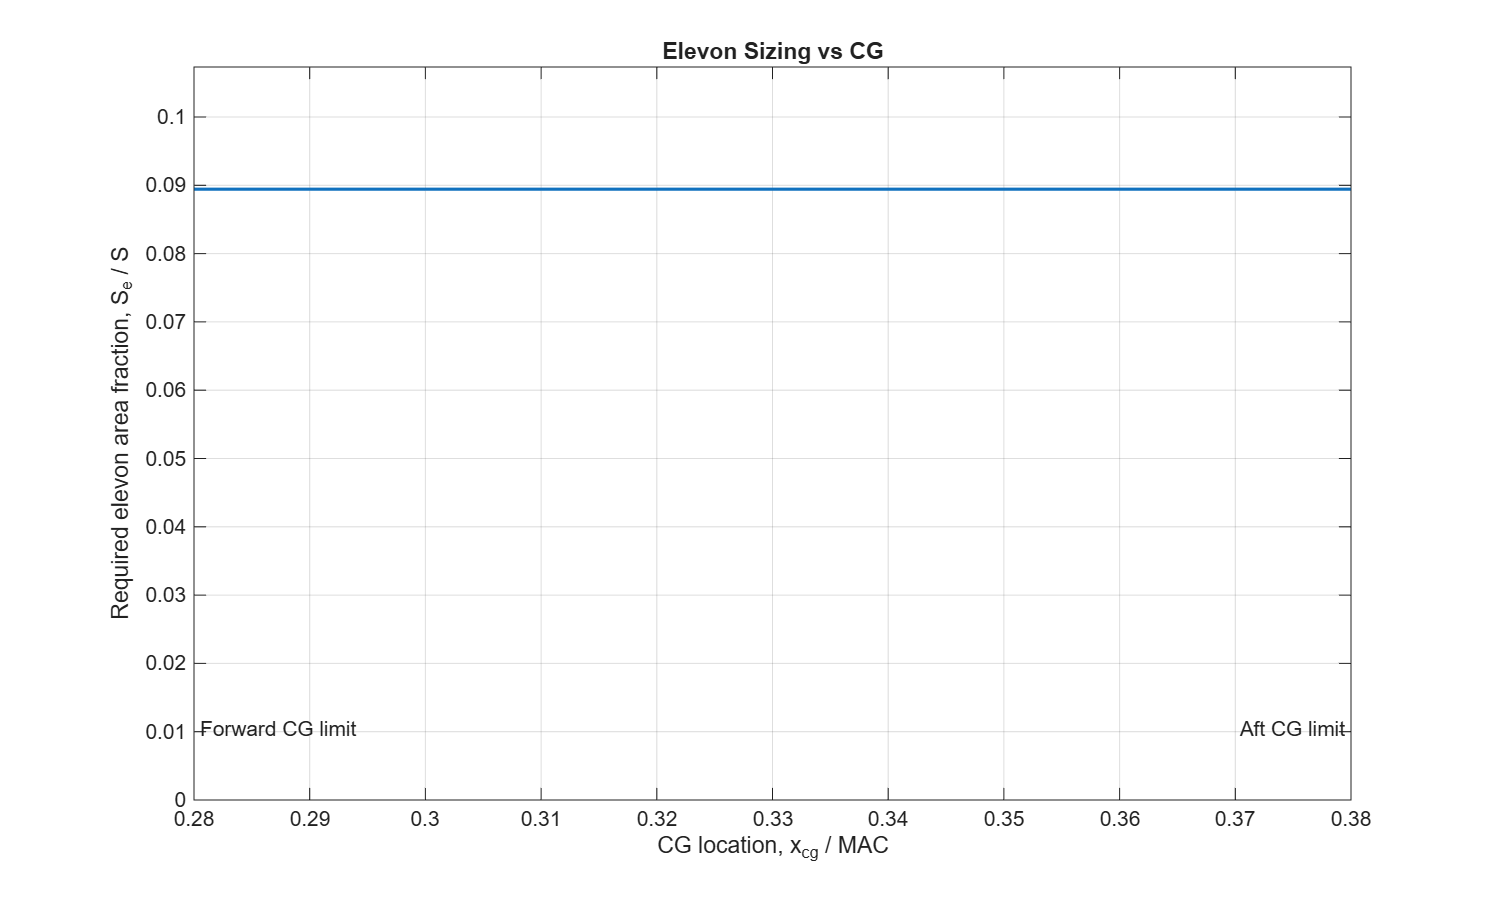
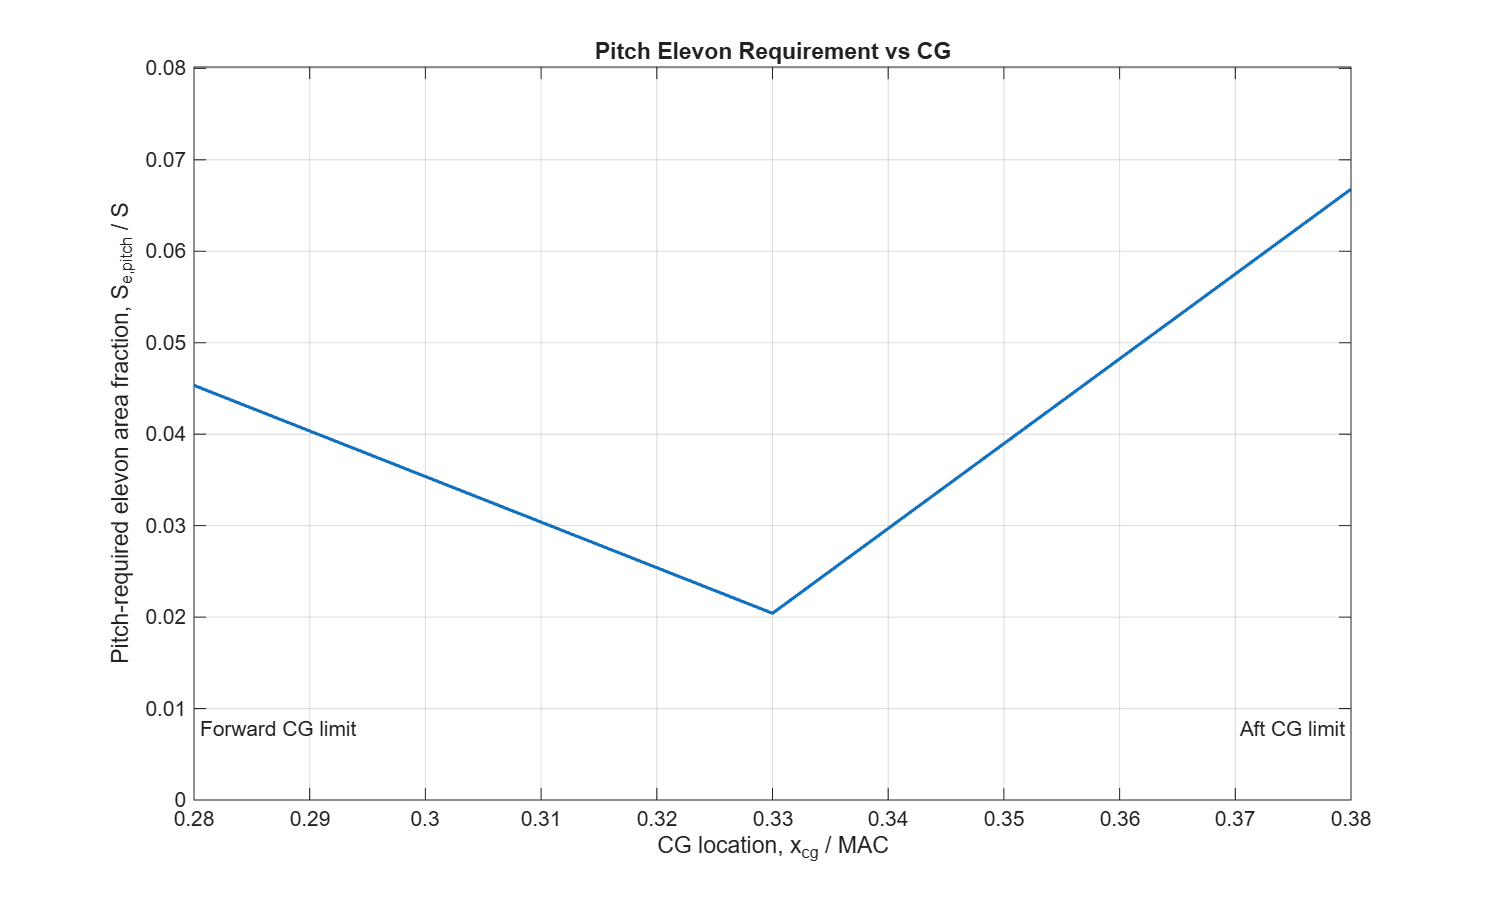
Update CG sweep pitch area plot

diff --git a/+DynamicsPkg/BWB_Dynamics_Demo.m b/+DynamicsPkg/BWB_Dynamics_Demo.m
@@ -72,9 +72,10 @@ Aircraft.Specs.Dynamics.Longitudinal.XrefMAC = 0.25;
 %% LATERAL AND GEOMETRY INPUTS %%
 %%%%%%%%%%%%%%%%%%%%%%%%%%%%%%%%%
 
-% Placeholder aircraft roll derivatives for the time-to-bank check.
-Aircraft.Specs.Dynamics.Lateral.Clda = 0.08; % [1/rad] aircraft rolling-moment coefficient derivative dCl_roll/d(delta_a).
-Aircraft.Specs.Dynamics.Lateral.Clp = -0.45;
+% Placeholder aircraft roll derivatives for the time-to-bank check. CrlDeltaA
+% is aircraft-level dCrl/d(delta_a), not the local section lift derivative.
+Aircraft.Specs.Dynamics.Lateral.CrlDeltaA = 0.08; % [1/rad] aircraft rolling-moment coefficient derivative.
+Aircraft.Specs.Dynamics.Lateral.Crlp = -0.45; % [1/rad] aircraft roll-damping derivative dCrl/d(p*b/2V).
 Aircraft.Specs.Dynamics.Lateral.Cndr = -0.25;
 
 % Geometry uses the NASA/Boeing X-48B aspect ratio scaled to 100 ft span.
@@ -166,7 +167,7 @@ Surfaces.DualElevon.SectionClDelta = 3.0;  % [1/rad] local 2D dcl/d(delta_elevon
 Surfaces.Aileron = Planform;
 Surfaces.Aileron.Name = "Roll Elevon";
 Surfaces.Aileron.ChordFractions = 0.40; % [-] max roll-only chord fraction; combined with dual-use by a shared bound.
-Surfaces.Aileron.SectionClDelta = 2.5;  % [1/rad] local 2D dcl/d(delta_elevon); roll Cl is integrated from this.
+Surfaces.Aileron.SectionClDelta = 3.0;  % [1/rad] local 2D dcl/d(delta_elevon); CrlDeltaA is integrated from this.
 
 Surfaces.Rudder.TauControlEff = 0.85; % [-] rudder hinge/control effectiveness factor.
 % Rudder still uses a small candidate grid because it is independent of the
@@ -182,7 +183,7 @@ SizingSweep = SizingOpt;
 
 if RunCgSweep
     XcgMAC = linspace(Aircraft.Specs.Dynamics.CG.ForwardMAC, Aircraft.Specs.Dynamics.CG.AftMAC, 3)';
-    AreaFraction = zeros(size(XcgMAC));
+    PitchAreaFraction = zeros(size(XcgMAC));
     Converged = zeros(size(XcgMAC));
 
     for icg = 1:length(XcgMAC)
@@ -195,17 +196,17 @@ if RunCgSweep
         % Re-run the full CasADi sizing at this CG location. This is an
         % optimized sizing sweep, not just a post-processing sensitivity.
         SweepSizing = DynamicsPkg.OptimizeSharedElevons(Aircraft, SweepCases, Surfaces);
-        AreaFraction(icg) = SweepSizing.Elevator.AreaFraction;
+        PitchAreaFraction(icg) = SweepSizing.Casadi.PitchAreaFraction;
         Converged(icg) = SweepSizing.Converged;
     end
 else
     XcgMAC = Cases.LongitudinalTrim.XcgMAC;
-    AreaFraction = SizingOpt.Elevator.AreaFraction;
+    PitchAreaFraction = SizingOpt.Casadi.PitchAreaFraction;
     Converged = SizingOpt.Converged;
 end
 
 CgSweep.XcgMAC = XcgMAC;
-CgSweep.AreaFraction = AreaFraction;
+CgSweep.PitchAreaFraction = PitchAreaFraction;
 CgSweep.Converged = Converged;
 
 fprintf(1, "Required pitch authority area fraction: %.3f\n", SizingOpt.Elevator.AreaFraction);
@@ -246,13 +247,13 @@ end
 
 figure;
 if RunCgSweep
-    plot(CgSweep.XcgMAC, CgSweep.AreaFraction, "LineWidth", 1.5);
+    plot(CgSweep.XcgMAC, CgSweep.PitchAreaFraction, "LineWidth", 1.5);
 else
-    plot(CgSweep.XcgMAC, CgSweep.AreaFraction, "o", "MarkerSize", 8, "LineWidth", 1.5);
+    plot(CgSweep.XcgMAC, CgSweep.PitchAreaFraction, "o", "MarkerSize", 8, "LineWidth", 1.5);
 end
 hold on
 xlim([Aircraft.Specs.Dynamics.CG.ForwardMAC, Aircraft.Specs.Dynamics.CG.AftMAC]);
-AreaLimit = max(0.06, 1.2 * max(CgSweep.AreaFraction));
+AreaLimit = max(0.06, 1.2 * max(CgSweep.PitchAreaFraction));
 ylim([0, AreaLimit]);
 ForwardCG = Aircraft.Specs.Dynamics.CG.ForwardMAC;
 AftCG = Aircraft.Specs.Dynamics.CG.AftMAC;
@@ -265,11 +266,11 @@ text(AftCG - LabelInset, 0.08 * AreaLimit, "Aft CG limit", ...
     "HorizontalAlignment", "right", "VerticalAlignment", "bottom");
 grid on
 xlabel("CG location, x_{cg} / MAC");
-ylabel("Required elevon area fraction, S_e / S");
+ylabel("Pitch-required elevon area fraction, S_{e,pitch} / S");
 if RunCgSweep
-    title("Elevon Sizing vs CG");
+    title("Pitch Elevon Requirement vs CG");
 else
-    title("Selected Elevon Sizing Point");
+    title("Selected Pitch Elevon Sizing Point");
 end
 saveas(gcf, fullfile(OutputDir, "elevator_area_vs_cg.png"));
 

diff --git a/+DynamicsPkg/CheckTimeToBank.m b/+DynamicsPkg/CheckTimeToBank.m
@@ -14,19 +14,30 @@ Inertia = Aircraft.Specs.Dynamics.Inertia;
 
 Sref = Aircraft.Specs.Weight.MTOW / Aircraft.Specs.Aero.W_S.SLS;
 qbar = 0.5 * Rho * V ^ 2;
-Clda = Lat.Clda * Aileron.TauControlEff * Aileron.AreaFraction;
-if isfield(Aileron, 'Segments')
-    CldaIntegral = 0;
-    for isegment = 1:length(Aileron.Segments)
-        CldaIntegral = CldaIntegral + ControlRollIntegral(Aircraft, Aileron.Segments{isegment});
-    end
-    Clda = 2 * Aileron.TauControlEff * CldaIntegral / (Sref * Geom.b);
-elseif isfield(Aileron, 'YInboard') && isfield(Aileron, 'YOutboard')
-    Clda = 2 * Aileron.TauControlEff * ControlRollIntegral(Aircraft, Aileron) / (Sref * Geom.b);
+if isfield(Lat, 'CrlDeltaA')
+    CrlDeltaA = Lat.CrlDeltaA * Aileron.TauControlEff * Aileron.AreaFraction;
+elseif isfield(Lat, 'CrollDeltaA')
+    CrlDeltaA = Lat.CrollDeltaA * Aileron.TauControlEff * Aileron.AreaFraction;
+else
+    CrlDeltaA = Lat.Clda * Aileron.TauControlEff * Aileron.AreaFraction;
 end
-Lp = qbar * Sref * Geom.b ^ 2 * Lat.Clp / (2 * V * Inertia.Ixx);
+if isfield(Aileron, 'Segments')
+    CrollIntegral = 0;
+    for isegment = 1:length(Aileron.Segments)
+        CrollIntegral = CrollIntegral + ControlRollIntegral(Aircraft, Aileron.Segments{isegment});
+    end
+    CrlDeltaA = 2 * Aileron.TauControlEff * CrollIntegral / (Sref * Geom.b);
+elseif isfield(Aileron, 'YInboard') && isfield(Aileron, 'YOutboard')
+    CrlDeltaA = 2 * Aileron.TauControlEff * ControlRollIntegral(Aircraft, Aileron) / (Sref * Geom.b);
+end
+if isfield(Lat, 'Crlp')
+    Crlp = Lat.Crlp;
+else
+    Crlp = Lat.Clp;
+end
+Lp = qbar * Sref * Geom.b ^ 2 * Crlp / (2 * V * Inertia.Ixx);
 
-BankPerDeflection = (2 * V / Geom.b) * (Clda / Lat.Clp) * ...
+BankPerDeflection = (2 * V / Geom.b) * (CrlDeltaA / Crlp) * ...
     (Case.TimeLimit + (1 / Lp) * (1 - exp(Lp * Case.TimeLimit)));
 DeltaA = Case.BankTarget / abs(BankPerDeflection);
 Phi = abs(BankPerDeflection) * Case.MaxDeflection;
@@ -36,7 +47,7 @@ Check.Delta = DeltaA;
 Check.Phi = Phi;
 Tolerance = DynamicsPkg.ControlFeasibilityTolerance(Case);
 Check.Feasible = abs(Check.Delta) <= Case.MaxDeflection + Tolerance;
-Check.Clda = Clda;
+Check.CrlDeltaA = CrlDeltaA;
 
 if isfield(Aileron, 'YInboard')
     Check.YInboard = Aileron.YInboard;
@@ -54,7 +65,7 @@ Sref = Aircraft.Specs.Weight.MTOW / Aircraft.Specs.Aero.W_S.SLS;
     if isfield(Surface, 'SectionClDelta')
         SectionClDelta = Surface.SectionClDelta;
     else
-        SectionClDelta = 2.5;
+        SectionClDelta = 3.0;
     end
 
     y = linspace(Surface.YInboard, Surface.YOutboard, 25);

diff --git a/+DynamicsPkg/SolveSharedElevonChords.m b/+DynamicsPkg/SolveSharedElevonChords.m
@@ -110,11 +110,16 @@ Lat = Aircraft.Specs.Dynamics.Lateral;
 Geom = Aircraft.Specs.Dynamics.Geometry;
 Inertia = Aircraft.Specs.Dynamics.Inertia;
 Sref = Aircraft.Specs.Weight.MTOW / Aircraft.Specs.Aero.W_S.SLS;
+if isfield(Lat, 'Crlp')
+    Crlp = Lat.Crlp;
+else
+    Crlp = Lat.Clp;
+end
 
 [~, V, ~, ~, ~, Rho, ~] = MissionSegsPkg.ComputeFltCon(Case.Alt, 0, Case.VelType, Case.Vel);
 qbar = 0.5 * Rho * V ^ 2;
-Lp = qbar * Sref * Geom.b ^ 2 * Lat.Clp / (2 * V * Inertia.Ixx);
-BankGain = abs((2 * V / Geom.b) * ((2 * 0.85 / (Sref * Geom.b)) / Lat.Clp) * ...
+Lp = qbar * Sref * Geom.b ^ 2 * Crlp / (2 * V * Inertia.Ixx);
+BankGain = abs((2 * V / Geom.b) * ((2 * 0.85 / (Sref * Geom.b)) / Crlp) * ...
     (Case.TimeLimit + (1 / Lp) * (1 - exp(Lp * Case.TimeLimit))));
 Opti.subject_to(RollIntegral >= Case.BankTarget / (Case.MaxDeflection * BankGain));
 

diff --git a/+DynamicsPkg/README.m b/+DynamicsPkg/README.m
@@ -30,7 +30,7 @@ function [] = README()
 %     Surfaces.DualElevon.ChordFractions = 0.40;
 %     Surfaces.Aileron = Planform;
 %     Surfaces.Aileron.ChordFractions = 0.40;
-%     Surfaces.Aileron.SectionClDelta = 2.5;
+%     Surfaces.Aileron.SectionClDelta = 3.0;
 %     Surfaces.Rudder.TauControlEff = 0.85;
 %     Surfaces.Rudder.ChordFractions = linspace(0.10, 0.35, 20)';
 %     Surfaces.Rudder.SpanFractions = linspace(0.05, 0.80, 152)';
